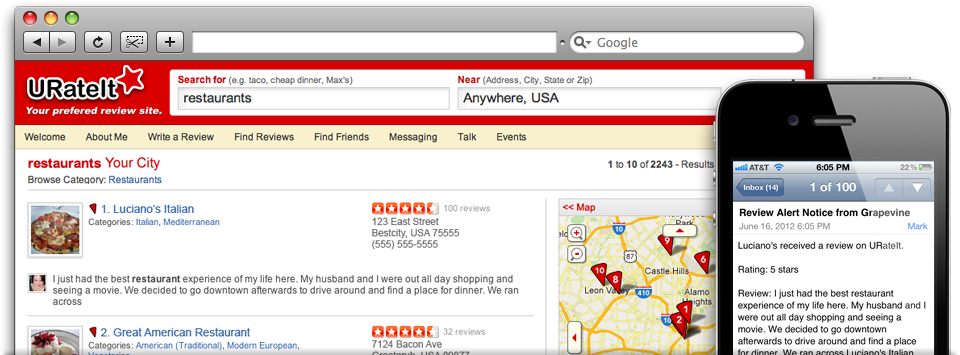
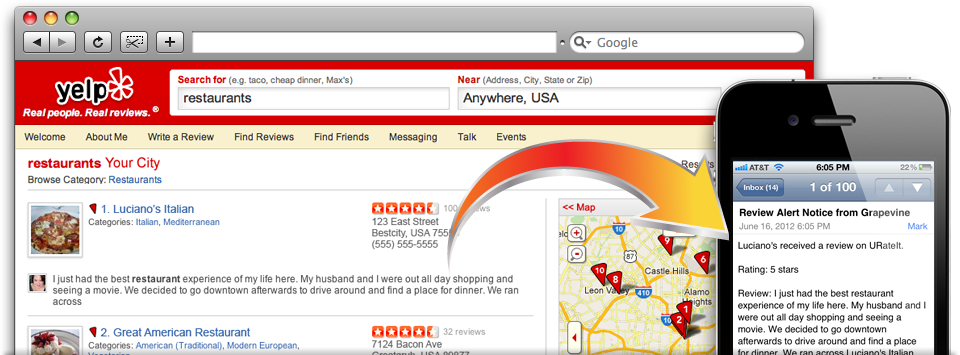
finished images and editing of home page

Changed region(s): [[0.4688, 0.3718, 0.7812, 0.7127], [0.0, 0.1859, 0.1875, 0.3408]]

diff --git a/app/assets/stylesheets/custom.css.scss b/app/assets/stylesheets/custom.css.scss
@@ -9,6 +9,8 @@ body {
 
 p {
     text-shadow:#fff 0 1px 0;
+    font-size:18px;
+    line-height:24px;
 }
 
 a:link, a:visited {
@@ -33,9 +35,9 @@ h3 {
 }
 
 .hand {
-    font-family: 'Delius Swash Caps', sans-serif;
+    font-family: 'Open Sans', sans-serif;
     font-weight:400;
-    color:#4fb6e9;
+    color:#7c40bc;
 }
 
 h2 {
@@ -55,7 +57,7 @@ h2 strong {
 h4 {
     font-family:'Open Sans', sans-serif;
     font-weight:600;
-    font-size:16px;
+    font-size:20px;
     
 }
 
@@ -72,13 +74,28 @@ h4 {
     filter:none;
 }
 
+// .navbar .brand {
+//     font-family: 'Open Sans Condensed', sans-serif;
+//     font-weight:700;
+//     font-size:32px;
+//     padding:40;
+//     margin-left:0;
+// }
+
 .navbar .brand {
-    font-family: 'Open Sans Condensed', sans-serif;
-    font-weight:700;
-    font-size:32px;
-    padding:0;
+    // background-image: image-url("logo_340x71.png");
+    // height: 71px;
+    // width: 340px;
+    background-repeat: no-repeat;
+    background-position: left top;
+    // text-indent: -9999em;
+    // padding-top:20px;
+    // padding:100;
     margin-left:0;
 }
+
+
+
 
 .navbar .nav {
     float:right;
@@ -179,7 +196,7 @@ h4 {
 /** FEATURE ***/
 
 .feature {
-    margin-top:60px;
+    // margin-top:60px;
     margin-bottom:60px;
     text-align:center;
 }
@@ -251,6 +268,8 @@ h4 {
     text-align:center;
     padding:8px 0;
     border-bottom:1px solid #eee;
+    font-size:14px;
+    line-height:18px;
     
 }
 
